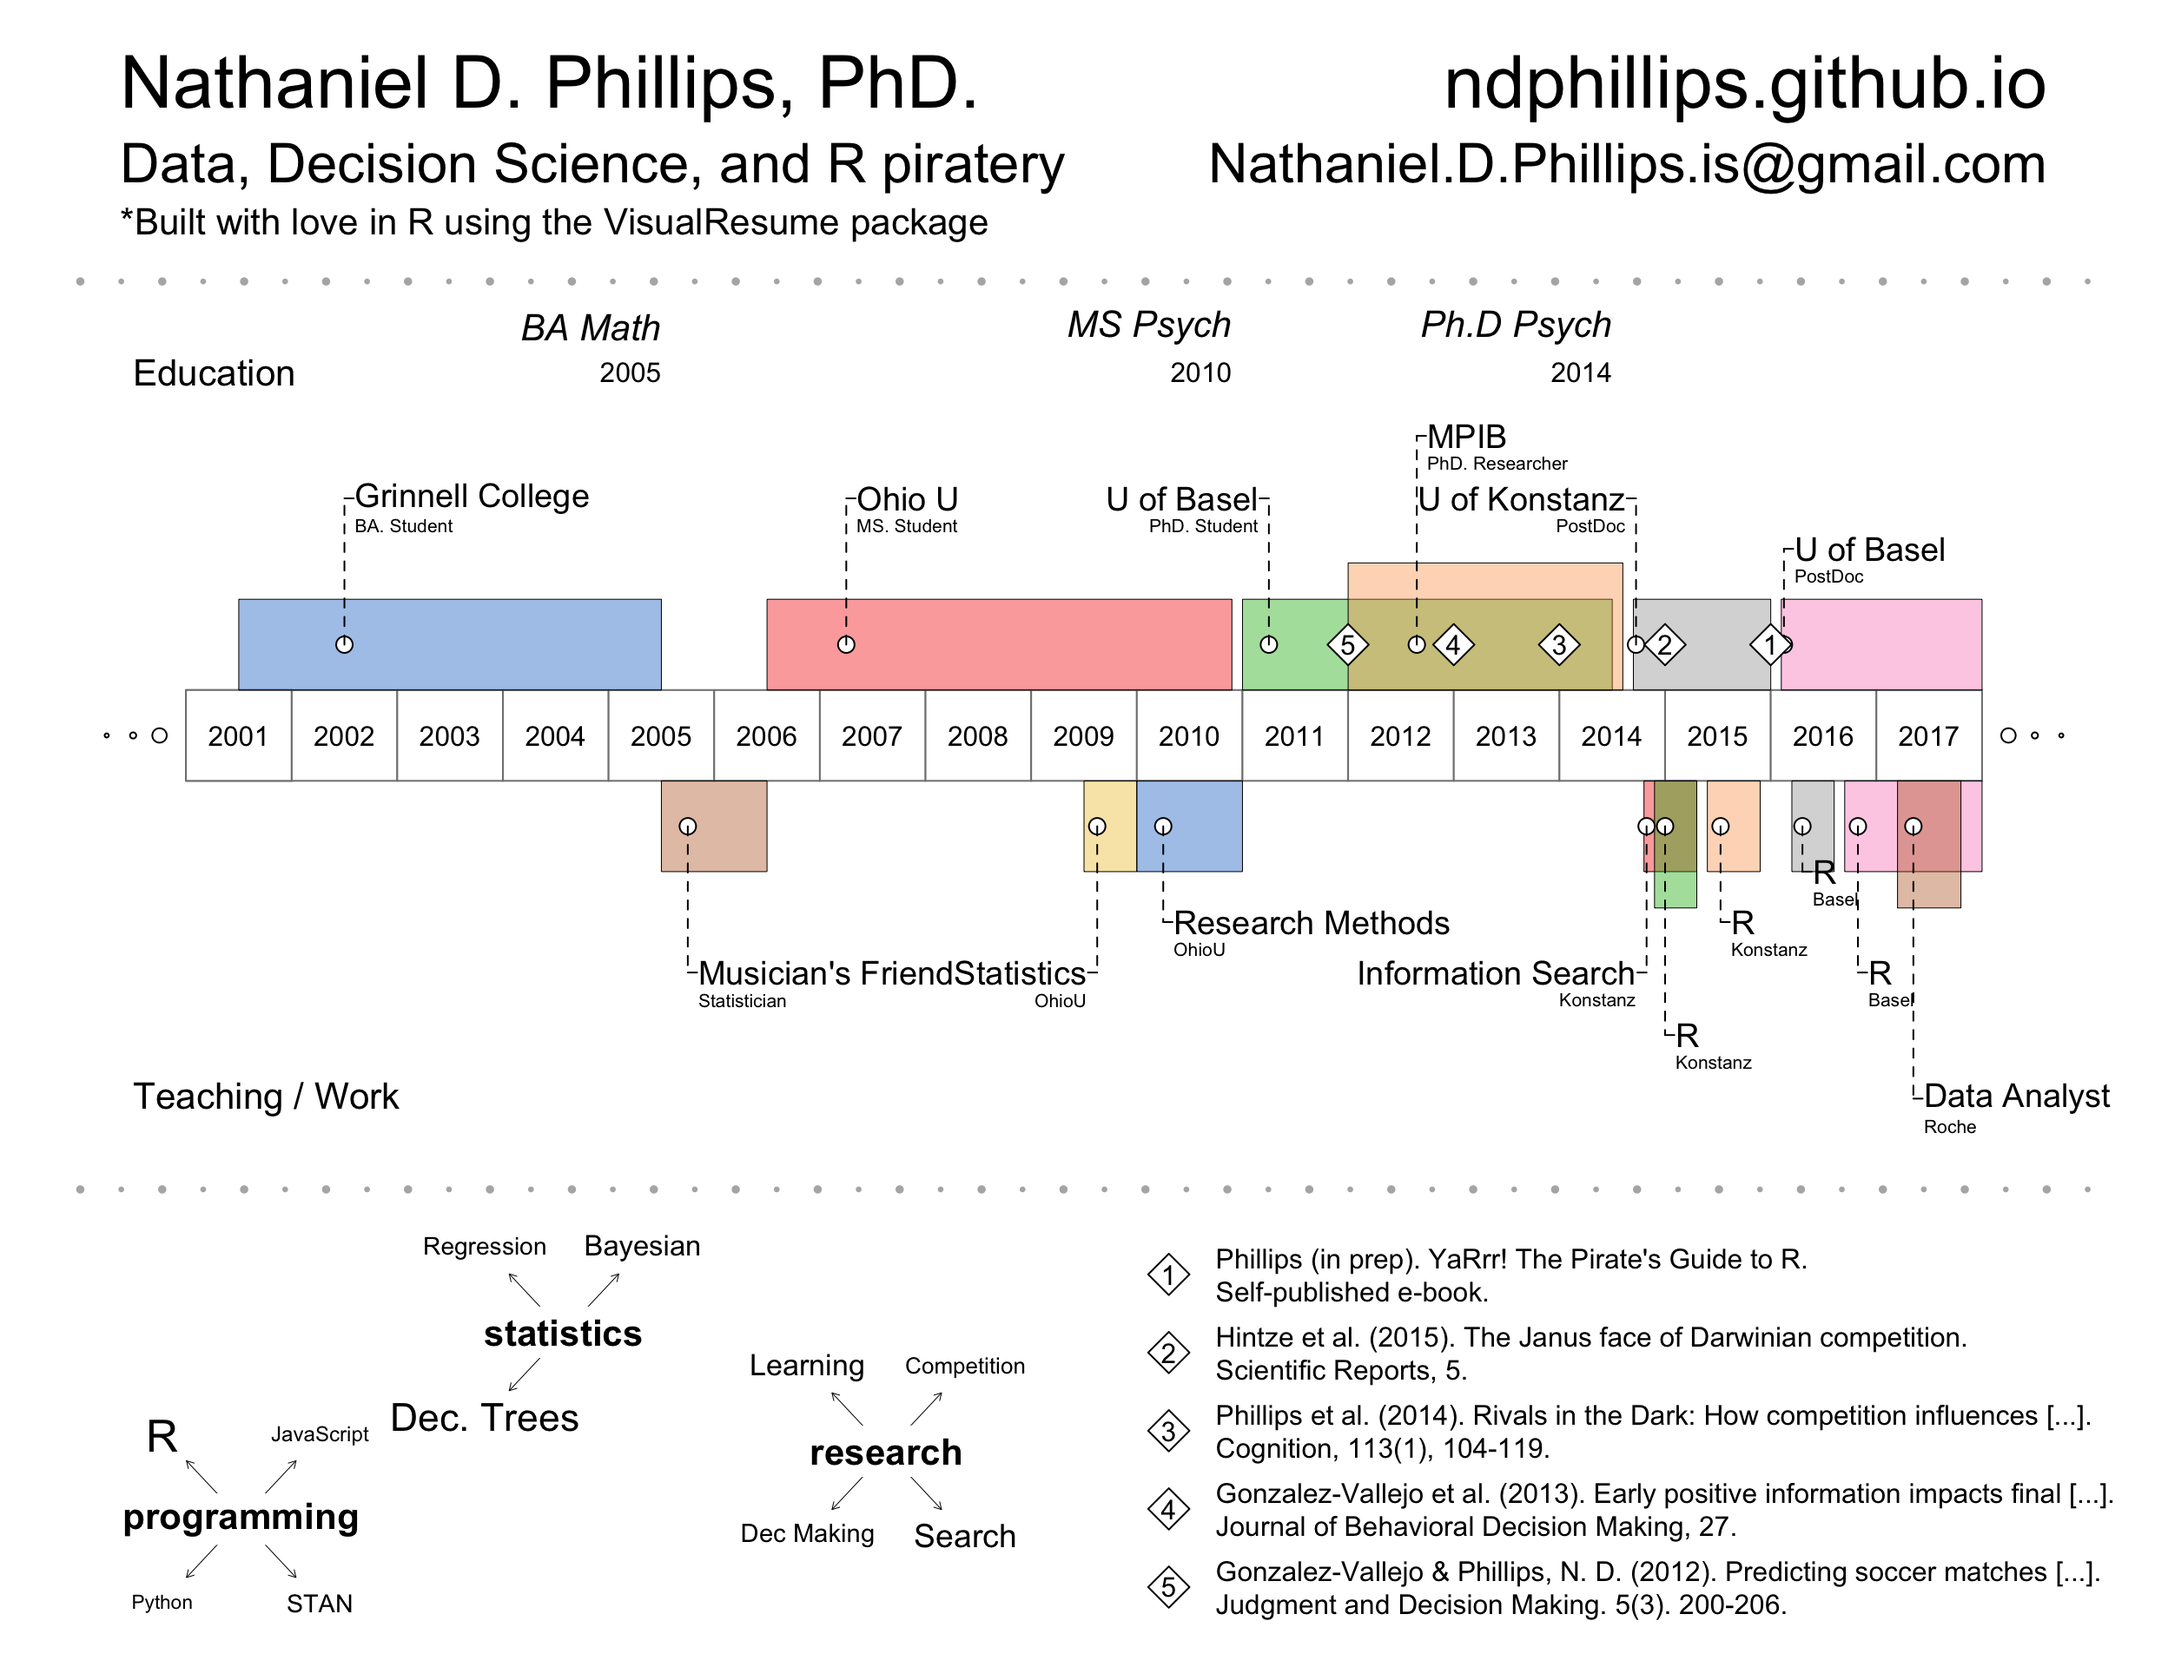
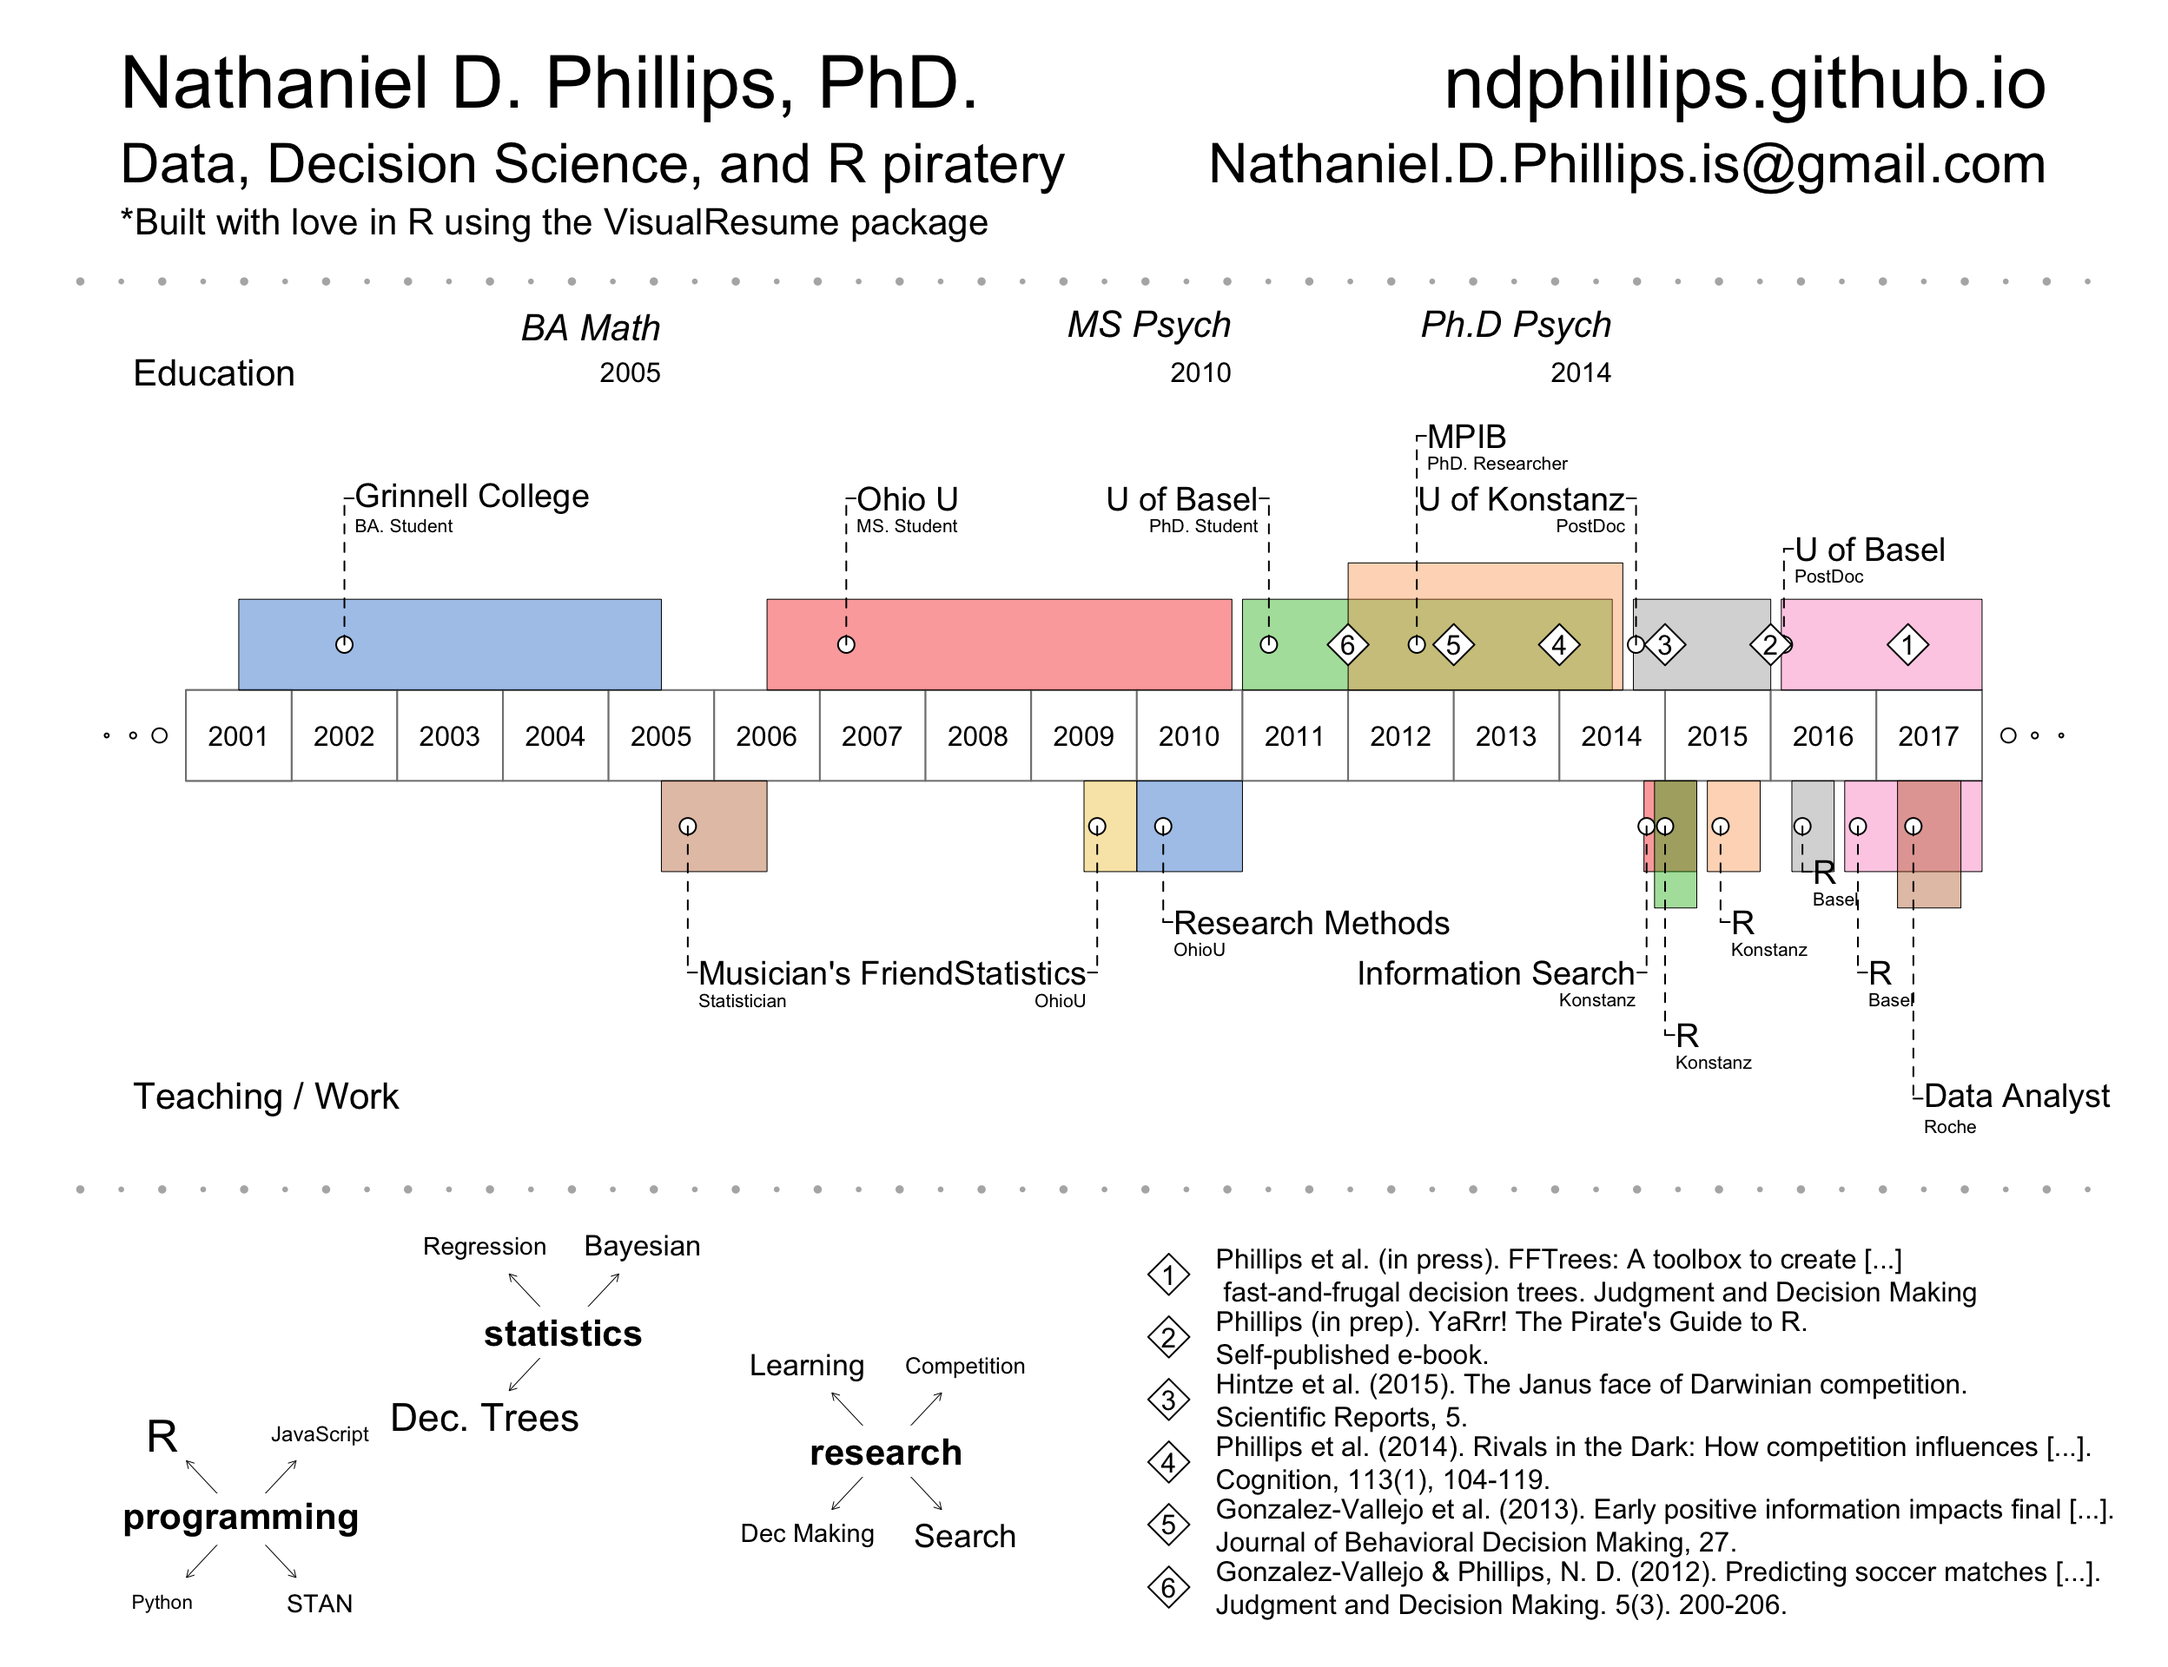
Updated Resume

Changed region(s): [[0.5312, 0.75, 0.9688, 0.9375], [0.875, 0.375, 0.9062, 0.4062]]

diff --git a/about.html b/about.html
@@ -307,6 +307,36 @@ $(document).ready(function () {
 <p><img src="media/brooklyn%20(1%20of%201)-3.jpg" width="500px" style="display: block; margin: auto;" /></p>
 <p>Here is my visual resume built using my <code>VisualResume</code> R package (see <a href="VisualResume.html">Visual Resume R Package</a>).</p>
 <p><img src="about_files/figure-html/unnamed-chunk-2-1.png" width="1248" /></p>
+<div id="resume" class="section level1">
+<h1>Resume</h1>
+<ul>
+<li><a href="media/Phillips_Resume_A.pdf#" class="download" title="Download resume as PDF (Updated July, 2017)">Download Resume as PDF (Updated July, 2017)</a></li>
+</ul>
+</div>
+<div id="publications" class="section level1">
+<h1>Publications</h1>
+<p>Phillips, N. D., Neth, H., Woike, J., &amp; Gaissmaier W. (<em>in press</em>). FFTrees: An R package to create, visualise, and evaluate fast-and-frugal decision trees. <em>Judgment and Decision Making</em></p>
+<p>Phillips, N. (2017). YaRrr! The pirate’s guide to R. <em>APS Observer, 30.3</em>. <a href="http://ndphillips.github.io/media/phillipsyarrr2017">PDF</a></p>
+<p>Hintze, A., Phillips, N. &amp; Hertwig, R. (2015). The Janus face of Darwinian competition. <em>Scientific Reports, 5. </em><a href="http://ndphillips.github.io/media/hintze2015janus.pdf">PDF</a></p>
+<p>Phillips, N. D.,Hertwig, R., Kareev, Y., &amp; Avrahami, J. (2014). Rivals in the dark: How competition influences search in decisions under uncertainty. <i>Cognition, 133(1), </i>104-119. <a href="http://ndphillips.github.io/media/phillips2014rivals.pdf">PDF</a></p>
+<p>González Vallejo, C., Cheng, J., Phillips, N. D., Chimeli, J., Bellezza, F., Harman, J., &amp; Lindberg, M. J. (2013). Early Positive Information Impacts Final Evaluations: No Deliberation‐Without‐Attention Effect and a Test of a Dynamic Judgment Model. <i>Journal of Behavioral Decision Making, 27(3)</i>, 209-225. <a href="http://ndphillips.github.io/media/gonzalez2013early.pdf">PDF</a></p>
+<p>González-Vallejo, C. &amp; Phillips, N. D. (2010). Predicting soccer matches: A reassessment of the benefit of unconscious thinking. <i>Judgment and Decision Making, 5(3), </i>200-206. <a href="http://ndphillips.github.io/media/gonzalez2010soccer.pdf">PDF</a></p>
+<p>Lassiter, G. D., Lindberg, M. J, Gonzalez-Vallejo, C., Bellezza, F. S., &amp; Phillips, N. D. (2009). The deliberation-without-attention effect: Evidence for an artifactual interpretation. <i>Psychological Science, 20(6)</i>, 671-675. <a href="http://ndphillips/github.io/media/lassiter2009deliberation.pdf">PDF</a></p>
+</div>
+<div id="recent-workshops" class="section level1">
+<h1>Recent Workshops</h1>
+<p>Phillips, N. (2017). R: The solution to your wildest data dreams. Congress for psychology students (psyKo). Schuepfheim, Switzerland. <a href="https://ndphillips.github.io/PsyKo-March2017">HTML</a></p>
+<p>Phillips, N. (2016). Creating R packages for research documentation. Early career judgment and decision making workshop, Basel, Switzerland. <a href="http://www.rpubs.com/ndphillips/rpackagescience">HTML</a></p>
+</div>
+<div id="recent-presentations" class="section level1">
+<h1>Recent Presentations</h1>
+<p>Phillips, N. (2017). FFTrees: Creating, visualizing, and implementing fast and frugal decision trees. PWC, Zuerich, Switzerland <a href="https://ndphillips.github.io/ZurichPWC28April2017/">HTML</a></p>
+<p>Phillips, N. (2017). Simplify your life with R: From documenting and sharing data to modeling simple decision strategies. Department of Economics, Zuerich, Switzerland <a href="https://ndphillips.github.io/UZurich-6April2017/">HTML</a></p>
+<p>Phillips, N. (2017). ShinyPsych: Writing psychology experiments with R and Shiny. Research Colloquium, Basel, Switzerland <a href="https://ndphillips.github.io/ShinyPsych_March2017">HTML</a></p>
+<p>Phillips, N., Neth, H,. Woike, J., &amp; Gaissmaeier, W. (2017). FFTrees: An R package to create and visualise fast and frugal decision trees. BaselR, Basel, Switzerland <a href="http://ndphillips.github.io/BaselR">HTML</a></p>
+<p>Phillips, N., Neth, H,. Woike, J., &amp; Gaissmaeier, W. (2016). FFTrees: An R package to create and visualise fast and frugal decision trees. Annual meeting of the society for Judgment and Decision Making, Boston, MA. <a href="http://ndphillips.github.io/media/phillips2016BostonFFTrees.pdf">PDF</a></p>
+<p>Phillips, N., Neth, H., Gaissmaeier, W., Navarro, D., Newell, B. &amp; Rieskamp, J. (2016). Peeks and Keeps: Optional risk reinforcement learning. Annual meeting for the Deutschen Gesellschaft fuer Psychologie. Leipzig, Germany. <a href="http://ndphillips.github.io/media/phillips2016Leipzigpak.pdf">PDF</a></p>
+<p>Phillips, N., Neth, H., Gaissmaeier, W., Navarro, D., Newell, B. &amp; Rieskamp, J. (2016). Peeks and Keeps: Optional risk decisions from experience. Annual meeting for the Society for Mathematical Psychology, New Brunswick, NJ.</p>
 <div id="education" class="section level4">
 <h4>Education</h4>
 <p>My educational background is in mathematical statistics and experimental psychology with an emphasis on cognition and decision-making. I obtained a B.A. in Mathematics from Grinnell College, a M.S. in Experimental Psychology from Ohio University, and a PhD in Experimental Psychology from the University of Basel.</p>
@@ -315,7 +345,7 @@ $(document).ready(function () {
 <h4>Research Philosophy</h4>
 <p>I am a cognitive scientist interested in decisions under uncertainty, with a focus on information search, impression formation, and decision making. I am passionate about R, open science, reproducible research, and Bayesian statistical methods.</p>
 </div>
-<div id="publications" class="section level4">
+<div id="publications-1" class="section level4">
 <h4>Publications</h4>
 <p>I have published research on unconscious decision making and decision making under competition. I am also self-publishing an introductory e-book on R titled <a href="piratesguide.html">YaRrr! The Pirate’s Guide to R</a>. For more information about my past, and future publications, view my <a href="cv.html">CV</a>.</p>
 </div>
@@ -342,37 +372,6 @@ $(document).ready(function () {
 <h4>Links</h4>
 <p>Here are some of my other relevant pages: <a href="https://www.researchgate.net/profile/Nathaniel_Phillips2">Research Gate</a>, <a href="http://scholar.google.com/citations?user=S-OOdSIAAAAJ">Google Scholar</a>, <a href="https://www.linkedin.com/in/nathanieldphillips">LinkedIn</a>.</p>
 </div>
-<div id="resume" class="section level1">
-<h1>Resume</h1>
-<p>You can download my resume and CV with the following links:</p>
-<ul>
-<li><a href="resume.pdf#" class="download" title="Download resume as PDF">Download Resume as PDF</a></li>
-</ul>
-</div>
-<div id="publications-1" class="section level1">
-<h1>Publications</h1>
-<p>Phillips, N. D., Neth, H., Woike, J., &amp; Gaissmaier W. (<em>in press</em>). FFTrees: An R package to create, visualise, and evaluate fast-and-frugal decision trees. <em>Judgment and Decision Making</em></p>
-<p>Phillips, N. (2017). YaRrr! The pirate’s guide to R. <em>APS Observer, 30.3</em>. <a href="http://ndphillips.github.io/media/phillipsyarrr2017">PDF</a></p>
-<p>Hintze, A., Phillips, N. &amp; Hertwig, R. (2015). The Janus face of Darwinian competition. <em>Scientific Reports, 5. </em><a href="http://ndphillips.github.io/media/hintze2015janus.pdf">PDF</a></p>
-<p>Phillips, N. D.,Hertwig, R., Kareev, Y., &amp; Avrahami, J. (2014). Rivals in the dark: How competition influences search in decisions under uncertainty. <i>Cognition, 133(1), </i>104-119. <a href="http://ndphillips.github.io/media/phillips2014rivals.pdf">PDF</a></p>
-<p>González Vallejo, C., Cheng, J., Phillips, N. D., Chimeli, J., Bellezza, F., Harman, J., &amp; Lindberg, M. J. (2013). Early Positive Information Impacts Final Evaluations: No Deliberation‐Without‐Attention Effect and a Test of a Dynamic Judgment Model. <i>Journal of Behavioral Decision Making, 27(3)</i>, 209-225. <a href="http://ndphillips.github.io/media/gonzalez2013early.pdf">PDF</a></p>
-<p>González-Vallejo, C. &amp; Phillips, N. D. (2010). Predicting soccer matches: A reassessment of the benefit of unconscious thinking. <i>Judgment and Decision Making, 5(3), </i>200-206. <a href="http://ndphillips.github.io/media/gonzalez2010soccer.pdf">PDF</a></p>
-<p>Lassiter, G. D., Lindberg, M. J, Gonzalez-Vallejo, C., Bellezza, F. S., &amp; Phillips, N. D. (2009). The deliberation-without-attention effect: Evidence for an artifactual interpretation. <i>Psychological Science, 20(6)</i>, 671-675. <a href="http://ndphillips/github.io/media/lassiter2009deliberation.pdf">PDF</a></p>
-</div>
-<div id="recent-workshops" class="section level1">
-<h1>Recent Workshops</h1>
-<p>Phillips, N. (2017). R: The solution to your wildest data dreams. Congress for psychology students (psyKo). Schuepfheim, Switzerland. <a href="https://ndphillips.github.io/PsyKo-March2017">HTML</a></p>
-<p>Phillips, N. (2016). Creating R packages for research documentation. Early career judgment and decision making workshop, Basel, Switzerland. <a href="http://www.rpubs.com/ndphillips/rpackagescience">HTML</a></p>
-</div>
-<div id="recent-presentations" class="section level1">
-<h1>Recent Presentations</h1>
-<p>Phillips, N. (2017). FFTrees: Creating, visualizing, and implementing fast and frugal decision trees. PWC, Zuerich, Switzerland <a href="https://ndphillips.github.io/ZurichPWC28April2017/">HTML</a></p>
-<p>Phillips, N. (2017). Simplify your life with R: From documenting and sharing data to modeling simple decision strategies. Department of Economics, Zuerich, Switzerland <a href="https://ndphillips.github.io/UZurich-6April2017/">HTML</a></p>
-<p>Phillips, N. (2017). ShinyPsych: Writing psychology experiments with R and Shiny. Research Colloquium, Basel, Switzerland <a href="https://ndphillips.github.io/ShinyPsych_March2017">HTML</a></p>
-<p>Phillips, N., Neth, H,. Woike, J., &amp; Gaissmaeier, W. (2017). FFTrees: An R package to create and visualise fast and frugal decision trees. BaselR, Basel, Switzerland <a href="http://ndphillips.github.io/BaselR">HTML</a></p>
-<p>Phillips, N., Neth, H,. Woike, J., &amp; Gaissmaeier, W. (2016). FFTrees: An R package to create and visualise fast and frugal decision trees. Annual meeting of the society for Judgment and Decision Making, Boston, MA. <a href="http://ndphillips.github.io/media/phillips2016BostonFFTrees.pdf">PDF</a></p>
-<p>Phillips, N., Neth, H., Gaissmaeier, W., Navarro, D., Newell, B. &amp; Rieskamp, J. (2016). Peeks and Keeps: Optional risk reinforcement learning. Annual meeting for the Deutschen Gesellschaft fuer Psychologie. Leipzig, Germany. <a href="http://ndphillips.github.io/media/phillips2016Leipzigpak.pdf">PDF</a></p>
-<p>Phillips, N., Neth, H., Gaissmaeier, W., Navarro, D., Newell, B. &amp; Rieskamp, J. (2016). Peeks and Keeps: Optional risk decisions from experience. Annual meeting for the Society for Mathematical Psychology, New Brunswick, NJ.</p>
 </div>
 
 
